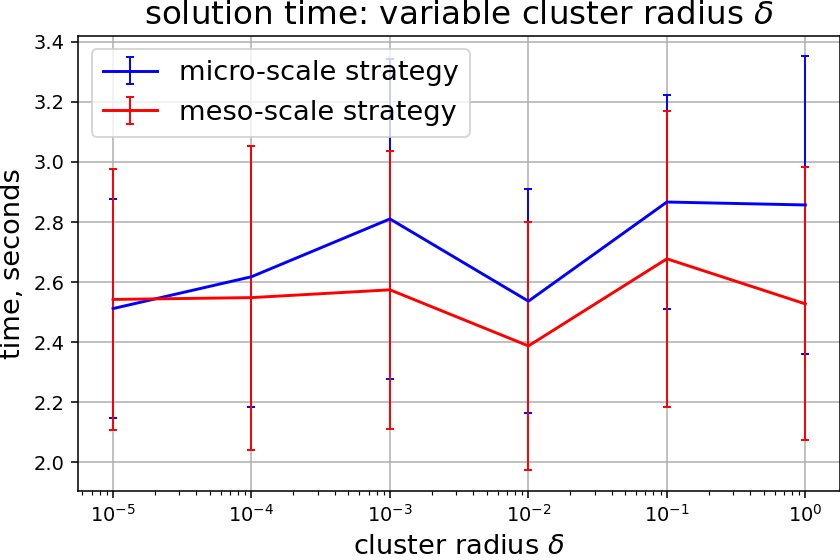
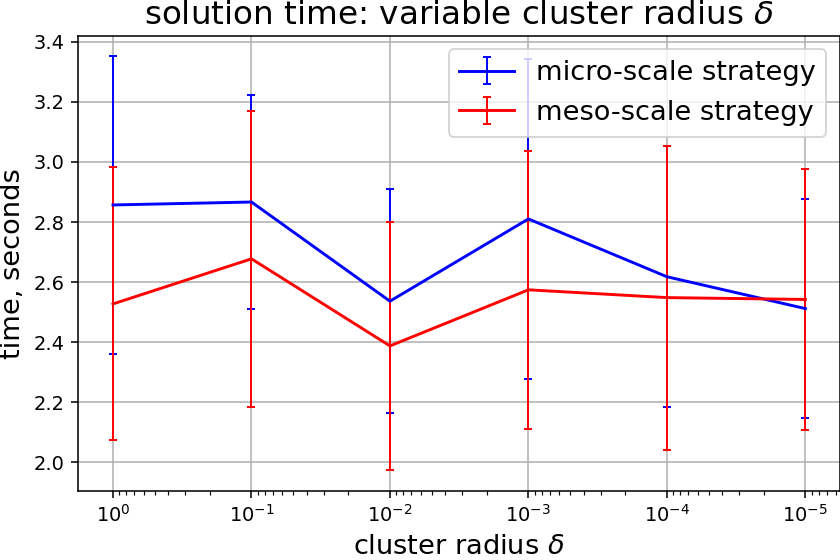
cleared requirements

diff --git a/src/plot/plotter.py b/src/plot/plotter.py
@@ -114,6 +114,7 @@ def exprt_results(dfs_perstrat, param_col, xvalues,
             ax.legend()
         #plt.show()
         if save_dir is not None:
+            plt.gca().invert_xaxis()
             plt.tight_layout(pad=0, w_pad=0, h_pad=0)
             plt.savefig(save_dir + f'{data_name}_{param_col}.png')#, bbox_inches='tight')
 

diff --git a/PlotResults.py b/PlotResults.py
@@ -4,7 +4,7 @@ import src.plot.plotter as pltr
 
 
 if __name__ == '__main__':
-    exper_name = 'exprt_7'
+    exper_name = 'exprt_8'
     xscale = 'log'
     xbase = 10
     yscale = 'linear'
